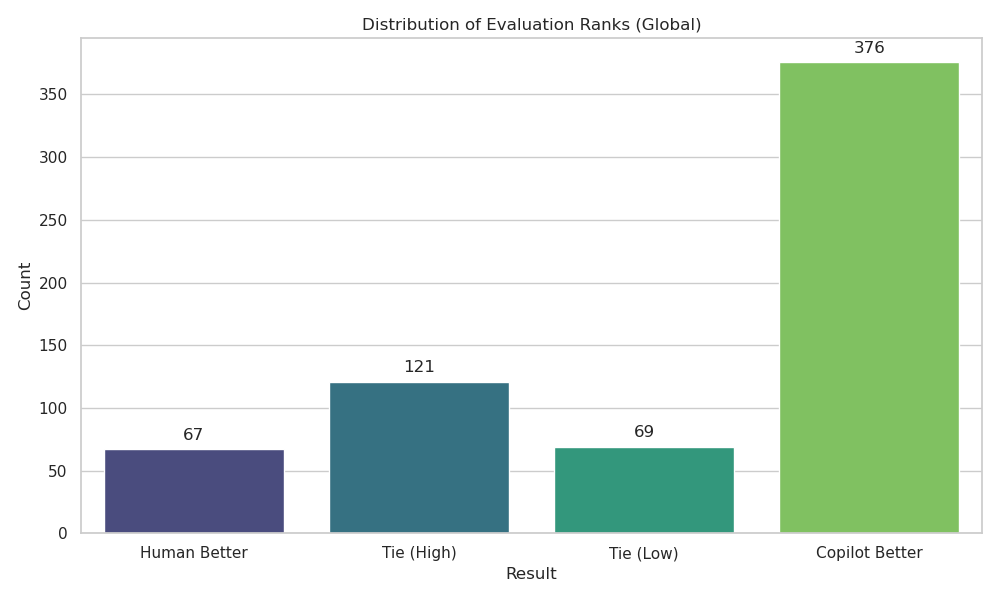
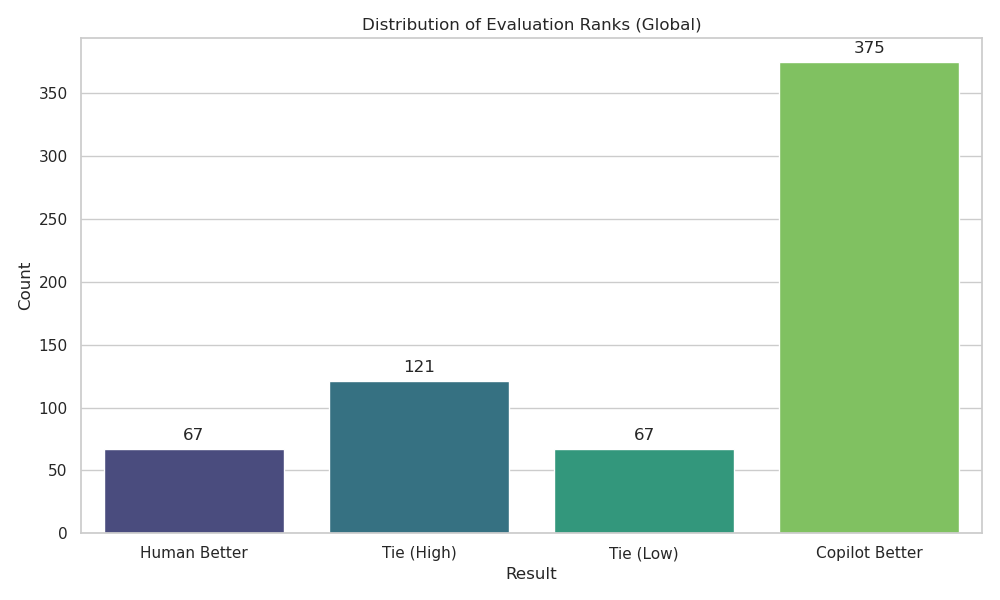
Figure finalisation AND STATS update for 3 issue field from generation

diff --git a/Human_30_Copilot_vs_Human_Evaluations_Interface/generate_statistical_analysis.py b/Human_30_Copilot_vs_Human_Evaluations_Interface/generate_statistical_analysis.py
@@ -39,8 +39,16 @@ def perform_analysis(df):
     df = df.dropna(subset=['Rank'])
     df = df[df['Rank'].isin(rank_map.keys())]
     
+    # Explicitly exclude PMC5550971 - partial entry with only 3/21 DOME fields filled
+    df = df[df['PMCID'] != 'PMC5550971']
+
     # Filter out publication fields as they are not relevant for this analysis
     df = df[~df['Field'].str.startswith('publication/')]
+
+    # Verify: 30 publications x 21 DOME fields = 630 total field evaluations
+    assert df['PMCID'].nunique() == 30, f"Expected 30 PMCIDs, got {df['PMCID'].nunique()}"
+    assert len(df) == 630, f"Expected 630 non-pub evaluations (30x21), got {len(df)}"
+    print(f"Analysis data: {df['PMCID'].nunique()} publications x 21 DOME fields = {len(df)} evaluations")
 
     df['Score'] = df['Rank'].map(rank_map)
     

diff --git a/Human_30_Copilot_vs_Human_Evaluations_Interface/generate_evaluation_analysis_plots.py b/Human_30_Copilot_vs_Human_Evaluations_Interface/generate_evaluation_analysis_plots.py
@@ -75,6 +75,13 @@ def load_evaluation_results():
     
     df = pd.read_csv(EVAL_RESULTS_FILE, sep='\t')
     print(f"Total evaluations loaded: {len(df)}")
+
+    # Explicitly exclude PMC5550971 - partial entry with only 3/21 DOME fields filled
+    df = df[df['PMCID'] != 'PMC5550971']
+    non_pub = df[~df['Field'].str.startswith('publication/')]
+    assert df['PMCID'].nunique() == 30, f"Expected 30 PMCIDs, got {df['PMCID'].nunique()}"
+    assert len(non_pub) == 630, f"Expected 630 non-pub field evaluations (30x21), got {len(non_pub)}"
+    print(f"After excluding partial PMC5550971: {df['PMCID'].nunique()} publications, {len(non_pub)} non-pub DOME field evaluations (30x21=630)")
     return df
 
 def plot_overall_rank_distribution(df):
